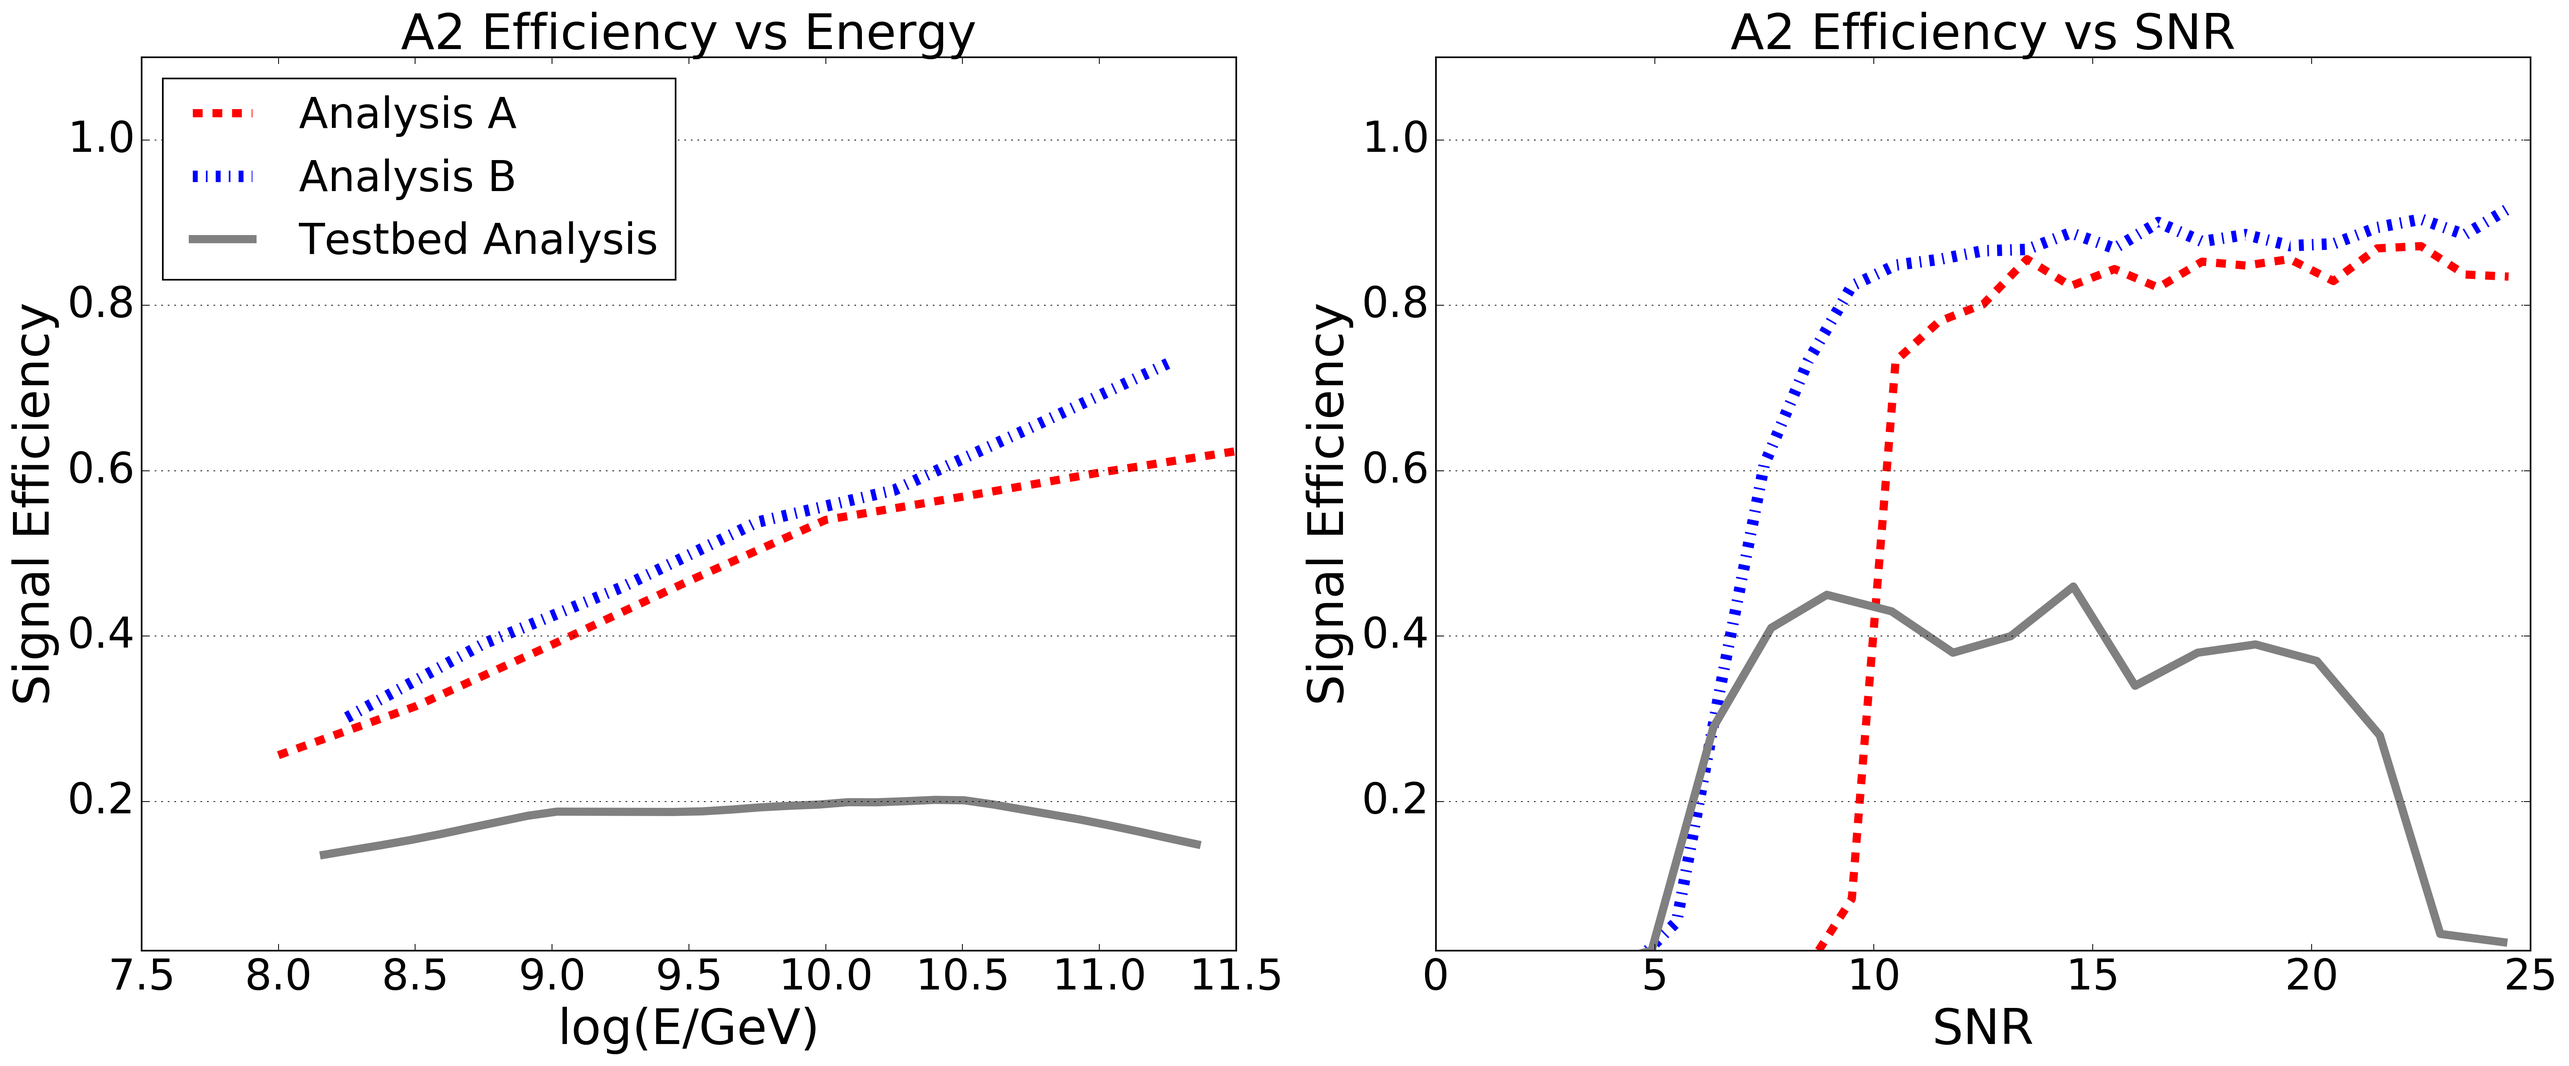
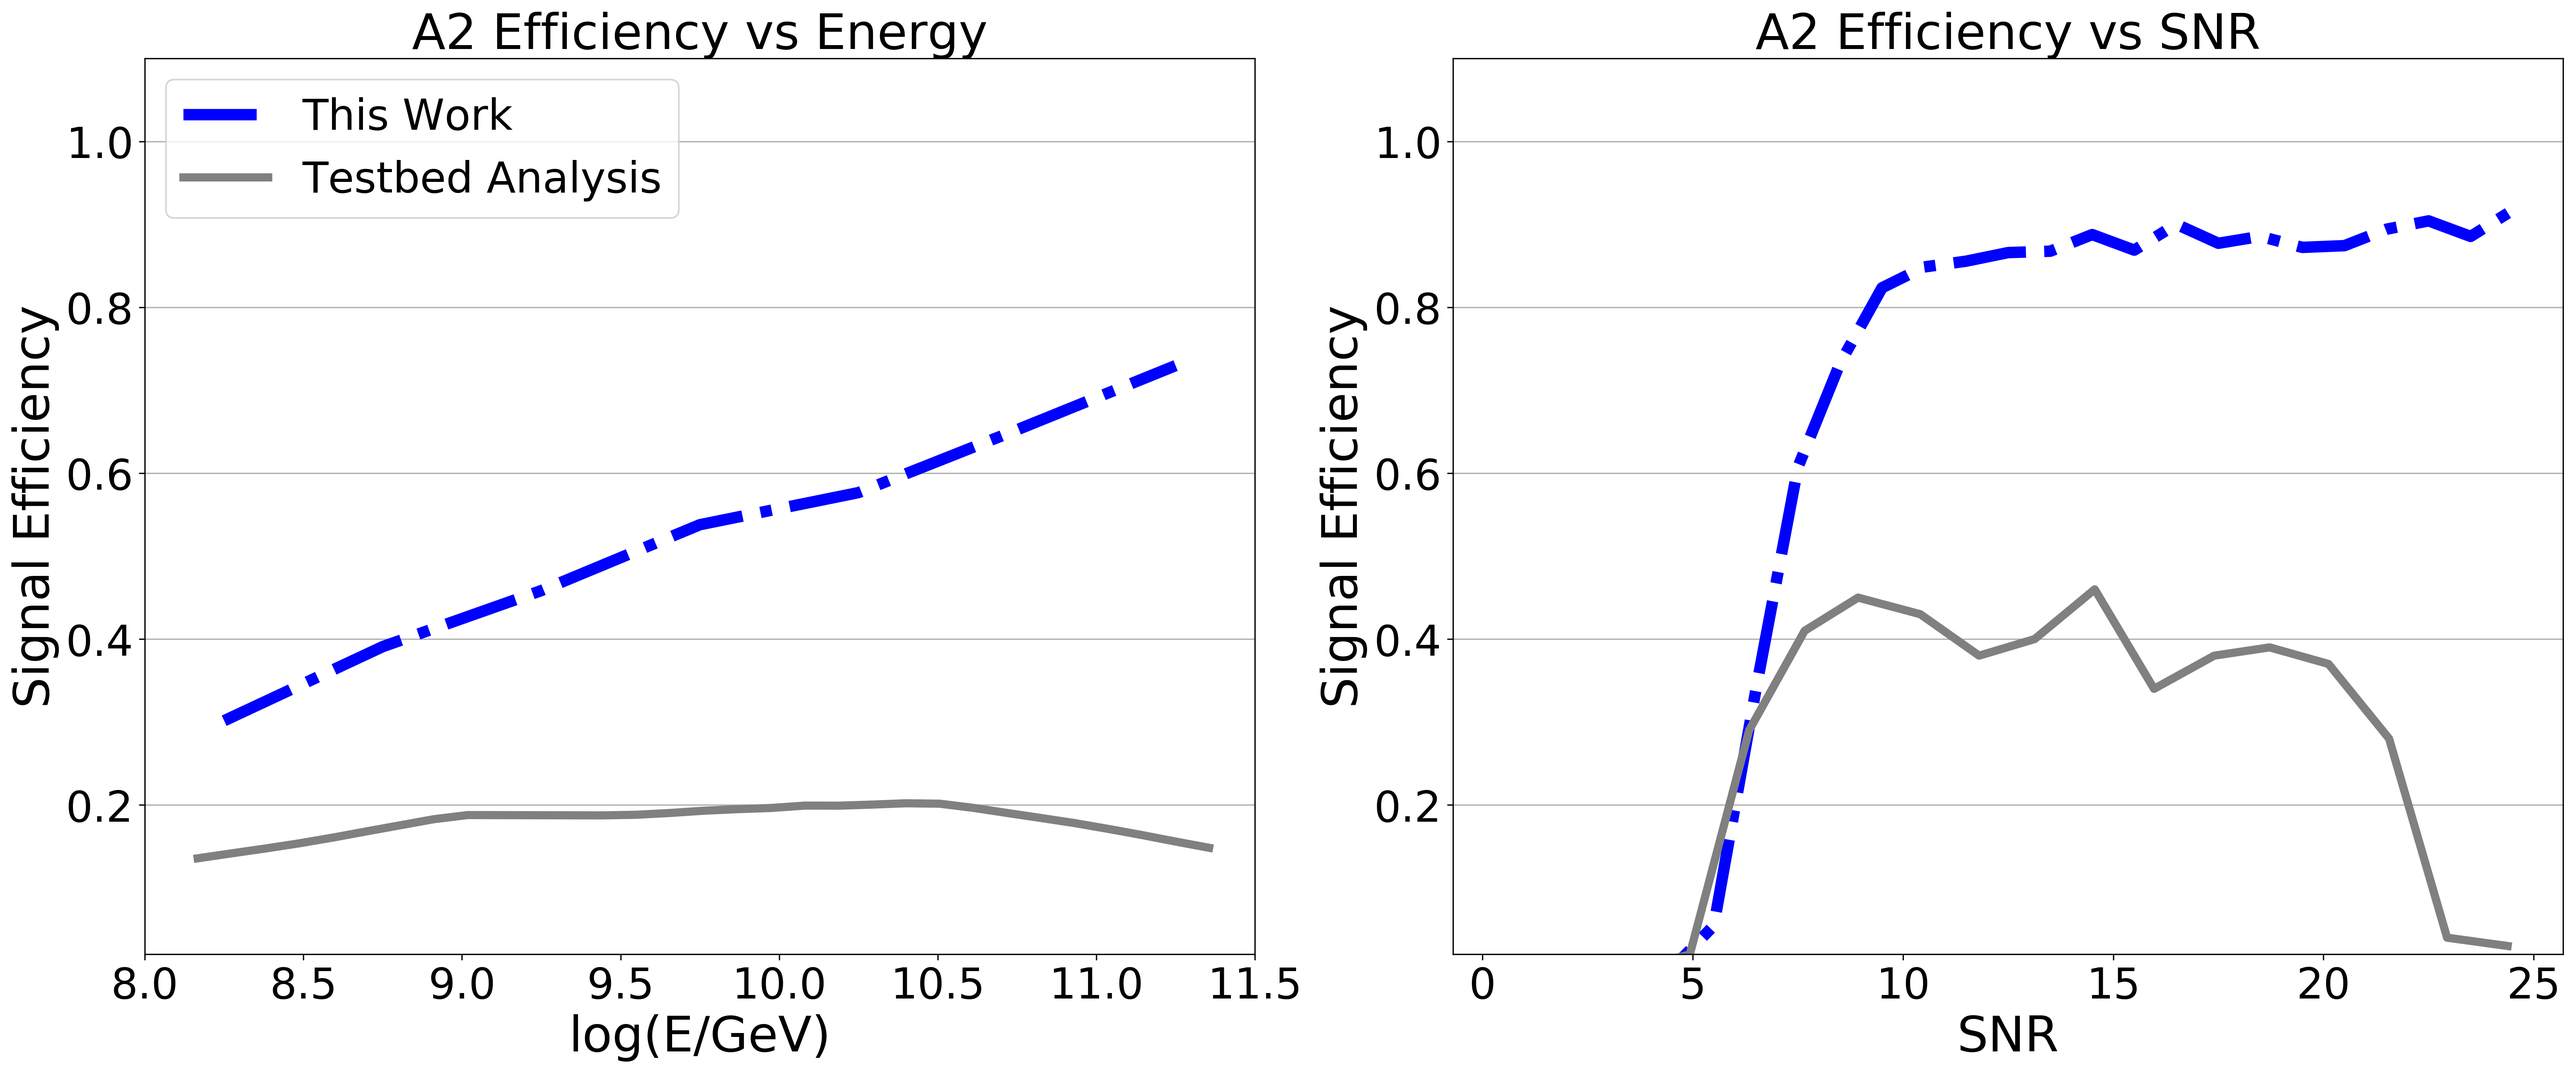
go to only 1 efficiency curve

diff --git a/proceedings/2019.07-ICRC-2019/efficiencies/plotSignalEfficiency_all.py b/proceedings/2019.07-ICRC-2019/efficiencies/plotSignalEfficiency_all.py
@@ -5,99 +5,99 @@ import matplotlib.pyplot as plt
 import os
 import numpy as np
 
-def read_efficiency_file(STATION, TYPE):
-   data = []
-   '''   
-   if TYPE in ['2','4']:
-      fp = STATION+'_type'+TYPE+'_vnchnl3NoMasking_noMaskSat_flattenSat_snrMode1_tunedPostCutCoherenceThermalCut_snrCut_signalEfficiency.csv'
-   else:
-      fp = STATION+'_type'+TYPE+'_vnchnl3NoMasking_noMaskSat_flattenSat_snrMode1_coherenceThermalCut_snrCut_signalEfficiency.csv'
-   '''
-   fp=STATION+'_type'+TYPE+'_vnchnl3NoMasking_noMaskSat_flattenSat_snrMode1_tunedPostCutThermalSNRSurfaceCut_signalEfficiency.csv'
-   #fp = STATION+'_type'+TYPE+'_vnchnl3NoMasking_noMaskSat_flattenSat_snrMode1_coherenceThermalCut_snrCut_signalEfficiency.csv'
-   #with open(STATION+'_type'+TYPE+'_signalEfficiency_fullCWCut_thermalImpCut.csv') as f:
-   #with open(STATION+'_type'+TYPE+'_impulsivityFilter1_signalEfficiency.csv') as f:
-   #with open(STATION+'_type'+TYPE+'_impulsivityFilter1_noMaskSat_flattenSat_signalEfficiency.csv') as f:
-   #with open(STATION+'_type'+TYPE+'_vnchnl3NoMasking_noMaskSat_flattenSat_snrMode1_newCWCut_signalEfficiency.csv') as f:
-   #with open(STATION+'_type'+TYPE+'_vnchnl3NoMasking_noMaskSat_flattenSat_snrMode1_coherenceThermalCut_snrCut_signalEfficiency.csv') as f:
-   with open(fp) as f:
-      for row in f:
-         data.append(map(float, row.rstrip().split(',')))
-   #map(float, data)      
-   return data
+# def read_efficiency_file(STATION, TYPE):
+#    data = []
+#    '''   
+#    if TYPE in ['2','4']:
+#       fp = STATION+'_type'+TYPE+'_vnchnl3NoMasking_noMaskSat_flattenSat_snrMode1_tunedPostCutCoherenceThermalCut_snrCut_signalEfficiency.csv'
+#    else:
+#       fp = STATION+'_type'+TYPE+'_vnchnl3NoMasking_noMaskSat_flattenSat_snrMode1_coherenceThermalCut_snrCut_signalEfficiency.csv'
+#    '''
+#    fp=STATION+'_type'+TYPE+'_vnchnl3NoMasking_noMaskSat_flattenSat_snrMode1_tunedPostCutThermalSNRSurfaceCut_signalEfficiency.csv'
+#    #fp = STATION+'_type'+TYPE+'_vnchnl3NoMasking_noMaskSat_flattenSat_snrMode1_coherenceThermalCut_snrCut_signalEfficiency.csv'
+#    #with open(STATION+'_type'+TYPE+'_signalEfficiency_fullCWCut_thermalImpCut.csv') as f:
+#    #with open(STATION+'_type'+TYPE+'_impulsivityFilter1_signalEfficiency.csv') as f:
+#    #with open(STATION+'_type'+TYPE+'_impulsivityFilter1_noMaskSat_flattenSat_signalEfficiency.csv') as f:
+#    #with open(STATION+'_type'+TYPE+'_vnchnl3NoMasking_noMaskSat_flattenSat_snrMode1_newCWCut_signalEfficiency.csv') as f:
+#    #with open(STATION+'_type'+TYPE+'_vnchnl3NoMasking_noMaskSat_flattenSat_snrMode1_coherenceThermalCut_snrCut_signalEfficiency.csv') as f:
+#    with open(fp) as f:
+#       for row in f:
+#          data.append(map(float, row.rstrip().split(',')))
+#    #map(float, data)      
+#    return data
 
-def get_script_path():
-   return os.path.dirname(os.path.realpath(sys.argv[0]))
-
-
-def sum_tables(t1, t2):
-   nRow = len(t1)
-   nCol = len(t1[0])
-   for i in range(nRow):
-      for j in range(1,nCol):
-         t1[i][j] += t2[i][j]
-   return t1
+# def get_script_path():
+#    return os.path.dirname(os.path.realpath(sys.argv[0]))
 
 
-STATION = sys.argv[1]
-#TYPE = sys.argv[2]
-eff_types = []
-types = ['1','2','3','4','5']
-
-for TYPE in types:
-   eff_types.append( read_efficiency_file(STATION, TYPE) )
-
-eff = sum_tables(eff_types[0], sum_tables(eff_types[1], sum_tables(eff_types[2], sum_tables(eff_types[3], eff_types[4]))))
-
-'''
-len_rows = len(eff_types[0])
-len_cols = len(eff_types[0][0])
-print ('len_rows: %d') % (len_rows)
-
-eff = []
-
-for TYPE in range(len(types)):
-   for row in range(len_rows):
-      for col in range(len_cols):
-         if row == 0 and col == 0:
-'''
+# def sum_tables(t1, t2):
+#    nRow = len(t1)
+#    nCol = len(t1[0])
+#    for i in range(nRow):
+#       for j in range(1,nCol):
+#          t1[i][j] += t2[i][j]
+#    return t1
 
 
+# STATION = sys.argv[1]
+# #TYPE = sys.argv[2]
+# eff_types = []
+# types = ['1','2','3','4','5']
 
-energy = []
-trig = []
-offset = []
-nchnl = []
-#imp = []
-#sat = []
-cw = []
-#cw_new = []
-#dp = []
-thermal = []
-#thermal_imp = []
-snr = []
-cal = []
-surface = []
-#noisy = []
+# for TYPE in types:
+#    eff_types.append( read_efficiency_file(STATION, TYPE) )
 
-row_count = 0
-for row in eff:
-   energy.append(float(row[0])-9)
-   trig.append(float(row[1])/float(row[1]))
-   offset.append(float(row[2])/float(row[1]))
-   nchnl.append(float(row[3])/float(row[1]))
-   #imp.append(float(row[3])/float(row[1]))
-   #sat.append(float(row[4])/float(row[1]))
-   cw.append(float(row[4])/float(row[1]))
-   #cw_new.append(float(row[5])/float(row[1]))
-   #dp.append(float(row[5])/float(row[1]))
-   thermal.append(float(row[5])/float(row[1]))
-   #thermal_imp.append(float(row[6])/float(row[1]))
-   snr.append(float(row[6])/float(row[1]))
-   cal.append(float(row[7])/float(row[1]))
-   surface.append(float(row[8])/float(row[1]))
-   #noisy.append(float(row[9])/float(row[1]))
-   row_count+=1
+# eff = sum_tables(eff_types[0], sum_tables(eff_types[1], sum_tables(eff_types[2], sum_tables(eff_types[3], eff_types[4]))))
+
+# '''
+# len_rows = len(eff_types[0])
+# len_cols = len(eff_types[0][0])
+# print ('len_rows: %d') % (len_rows)
+
+# eff = []
+
+# for TYPE in range(len(types)):
+#    for row in range(len_rows):
+#       for col in range(len_cols):
+#          if row == 0 and col == 0:
+# '''
+
+
+
+# energy = []
+# trig = []
+# offset = []
+# nchnl = []
+# #imp = []
+# #sat = []
+# cw = []
+# #cw_new = []
+# #dp = []
+# thermal = []
+# #thermal_imp = []
+# snr = []
+# cal = []
+# surface = []
+# #noisy = []
+
+# row_count = 0
+# for row in eff:
+#    energy.append(float(row[0])-9)
+#    trig.append(float(row[1])/float(row[1]))
+#    offset.append(float(row[2])/float(row[1]))
+#    nchnl.append(float(row[3])/float(row[1]))
+#    #imp.append(float(row[3])/float(row[1]))
+#    #sat.append(float(row[4])/float(row[1]))
+#    cw.append(float(row[4])/float(row[1]))
+#    #cw_new.append(float(row[5])/float(row[1]))
+#    #dp.append(float(row[5])/float(row[1]))
+#    thermal.append(float(row[5])/float(row[1]))
+#    #thermal_imp.append(float(row[6])/float(row[1]))
+#    snr.append(float(row[6])/float(row[1]))
+#    cal.append(float(row[7])/float(row[1]))
+#    surface.append(float(row[8])/float(row[1]))
+#    #noisy.append(float(row[9])/float(row[1]))
+#    row_count+=1
 
 
 plt.figure(figsize=(2*11,2*8.5))
@@ -126,7 +126,7 @@ ax.bar(energy, surface, 0.5, align='center', label='surface', color='gray')
 #ax.plot(energy, thermal_imp, color='orange', linestyle='-.', marker='.', label='thermal imp.', lw=5)
 # ax.plot(energy, snr, color='red', linestyle='--', marker='.', label='+2D Cut', lw=5) #SNR cut
 # ax.plot(energy, cal, linestyle='-', marker='.', color='green', label='+Calpulser Cut', lw=5)
-ax.plot(energy[2:-1], surface[2:-1], color='red', linestyle='--', label='Analysis A', lw=5)
+# ax.plot(energy[2:-1], surface[2:-1], color='red', linestyle='--', label='Analysis A', lw=5)
 # print surface
 #ax.bar(energy, noisy, align='center', label='noisy run', color='orange')
 
@@ -140,7 +140,7 @@ eff_c4 = np.array([0.29, 0.38, 0.46, 0.55, 0.58, 0.65, 0.69])
 eff_c5 = np.array([0.31, 0.40, 0.46, 0.54, 0.60, 0.67, 0.80])
 frac_uptime = np.array([0.165, 0.132, 0.087, 0.375, 0.242])
 eff_ave = (frac_uptime[0]*eff_c1) + (frac_uptime[1]*eff_c2) + (frac_uptime[2]*eff_c3) + (frac_uptime[3]*eff_c4) + (frac_uptime[4]*eff_c5)
-ax.plot(eff_ebins, eff_ave, color='blue', linestyle='-.', label='Analysis B', linewidth=7)
+ax.plot(eff_ebins, eff_ave, color='blue', linestyle='-.', label='This Work', linewidth=7)
 
 data_tb = np.genfromtxt("testbed_efficiency.csv",delimiter=',',skip_header=1,names=['energy_logev','eff'])
 tb_logeV = data_tb['energy_logev']
@@ -158,18 +158,18 @@ eff_vs_snr_c4 = brian_data['c4']
 eff_vs_snr_c5 = brian_data['c5']
 
 brian_eff_vs_snr_ave = (frac_uptime[0]*eff_vs_snr_c1) + (frac_uptime[1]*eff_vs_snr_c2) + (frac_uptime[2]*eff_vs_snr_c3) + (frac_uptime[3]*eff_vs_snr_c4) + (frac_uptime[4]*eff_vs_snr_c5)
-ax2.plot(snr_bins,brian_eff_vs_snr_ave, label='Analysis B',linestyle='-.',linewidth=7, color='blue')
+ax2.plot(snr_bins,brian_eff_vs_snr_ave, label='This Work',linestyle='-.',linewidth=7, color='blue')
 
 
-myl_data = np.genfromtxt("myl_eff_vs_snr.csv",delimiter=',',skip_header=1,names=['snr','c1','c2','c3','c4','c5'])
-snr_bins = myl_data['snr']
-eff_vs_snr_c1 = myl_data['c1']
-eff_vs_snr_c2 = myl_data['c2']
-eff_vs_snr_c3 = myl_data['c3']
-eff_vs_snr_c4 = myl_data['c4']
-eff_vs_snr_c5 = myl_data['c5']
-myl_eff_vs_snr_ave = (frac_uptime[0]*eff_vs_snr_c1) + (frac_uptime[1]*eff_vs_snr_c2) + (frac_uptime[2]*eff_vs_snr_c3) + (frac_uptime[3]*eff_vs_snr_c4) + (frac_uptime[4]*eff_vs_snr_c5)
-ax2.plot(snr_bins,myl_eff_vs_snr_ave, label='Analysis A',linestyle='--',linewidth=5, color='red')
+# myl_data = np.genfromtxt("myl_eff_vs_snr.csv",delimiter=',',skip_header=1,names=['snr','c1','c2','c3','c4','c5'])
+# snr_bins = myl_data['snr']
+# eff_vs_snr_c1 = myl_data['c1']
+# eff_vs_snr_c2 = myl_data['c2']
+# eff_vs_snr_c3 = myl_data['c3']
+# eff_vs_snr_c4 = myl_data['c4']
+# eff_vs_snr_c5 = myl_data['c5']
+# myl_eff_vs_snr_ave = (frac_uptime[0]*eff_vs_snr_c1) + (frac_uptime[1]*eff_vs_snr_c2) + (frac_uptime[2]*eff_vs_snr_c3) + (frac_uptime[3]*eff_vs_snr_c4) + (frac_uptime[4]*eff_vs_snr_c5)
+# ax2.plot(snr_bins,myl_eff_vs_snr_ave, label='Analysis A',linestyle='--',linewidth=5, color='red')
 
 tb_data = np.genfromtxt("tb_eff_vs_snr.csv",delimiter=',',skip_header=1,names=['snr','eff'])
 snr_bins = tb_data['snr']
@@ -192,7 +192,7 @@ for row in range(row_count):
 #ax.semilogy()
 
 #ax.set_yscale('log')
-ax.set_xlim(16.5-9,20.5-9)
+ax.set_xlim(17-9,20.5-9)
 ax.set_ylim(2e-2,1.1)
 ax.set_xlabel('log(E/GeV)', fontsize=30)
 ax.set_ylabel('Signal Efficiency', fontsize=30)
@@ -226,7 +226,7 @@ ax.grid(which='both',axis='y')
 ax.legend(loc='upper left', fontsize=26)
 # ax2.legend(loc='upper left', fontsize=26)
 plt.tight_layout()
-PWD = get_script_path()
+# PWD = get_script_path()
 #plt.savefig(PWD+'/'+STATION+'_type'+TYPE+'_signalEfficiencyLineAlongCuts.png', bbox_inches='tight')
 #plt.savefig(PWD+'/'+STATION+'_type'+TYPE+'_signalEfficiency_impulsivityFilter1.png', bbox_inches='tight')
 #plt.savefig(PWD+'/'+STATION+'_signalEfficiency_impulsivityFilter1_noMaskSat_flattenSat.png', bbox_inches='tight')
